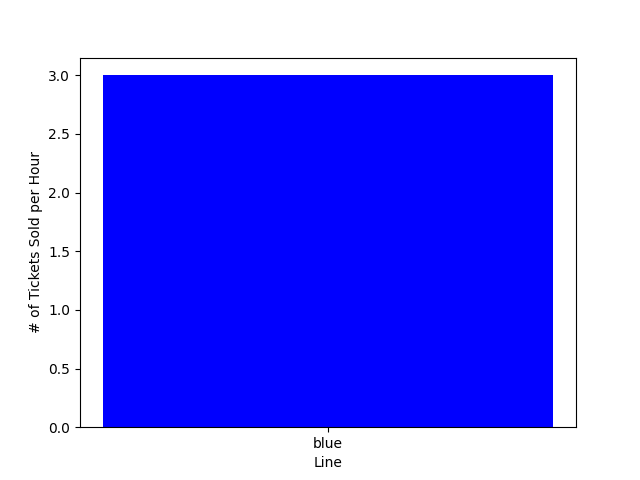
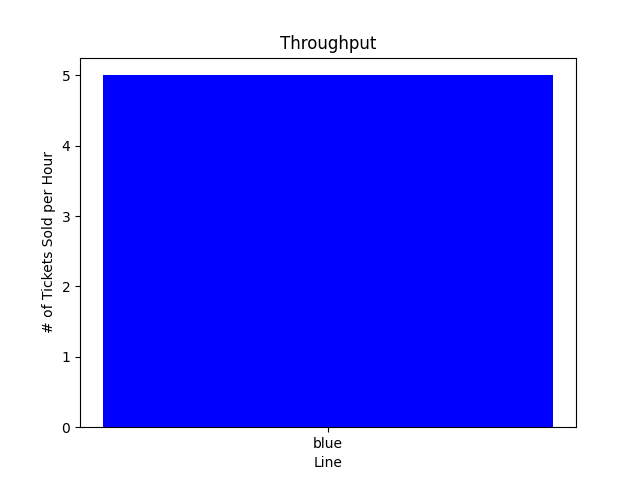
Updates on throughput graph functionality

diff --git a/CTC/CTC_UI.py b/CTC/CTC_UI.py
@@ -68,7 +68,9 @@ class CTC_UI(QtWidgets.QMainWindow):
 
         #Initializing Throughput    
         self.ThroughputGraph = Throughput()
+        resolution = QtCore.QSize(250, 200)
         pixmap = QPixmap('CTC/ThroughputGraph.png')
+        pixmap = pixmap.scaled(resolution, aspectRatioMode=QtCore.Qt.KeepAspectRatio, transformMode=Qt.SmoothTransformation)
         self.ThroughputGraphLabel.setPixmap(pixmap)
         
         #Connecting signals for testbench
@@ -184,9 +186,11 @@ class CTC_UI(QtWidgets.QMainWindow):
     #Function to update the ticket sales based on information from Track Model
     def updateTicketSales(self, Sales):
         self.ThroughputGraph.heights = Sales
-
+        
         self.ThroughputGraph.updateThroughputGraph()
+        resolution = QtCore.QSize(250, 200)
         pixmap = QPixmap('CTC/ThroughputGraph.png')
+        pixmap = pixmap.scaled(resolution, aspectRatioMode=QtCore.Qt.KeepAspectRatio, transformMode=Qt.SmoothTransformation)
         self.ThroughputGraphLabel.setPixmap(pixmap)
 
 

diff --git a/CTC/Throughput.py b/CTC/Throughput.py
@@ -14,10 +14,11 @@ class Throughput():
 
     def updateThroughputGraph(self):
         f = plt.figure()
-        #f.set_figwidth(2)
-        #f.set_figheight(1)
+        #f.set_figwidth(4)
+        #f.set_figheight(3)
         
         plt.bar(self.left_coordinates, height = self.heights, tick_label= self.bar_labels, width=0.6, color = self.colors)
+        plt.title('Throughput')
         plt.xlabel('Line')
         plt.ylabel('# of Tickets Sold per Hour')
         plt.savefig('CTC/ThroughputGraph.png')
